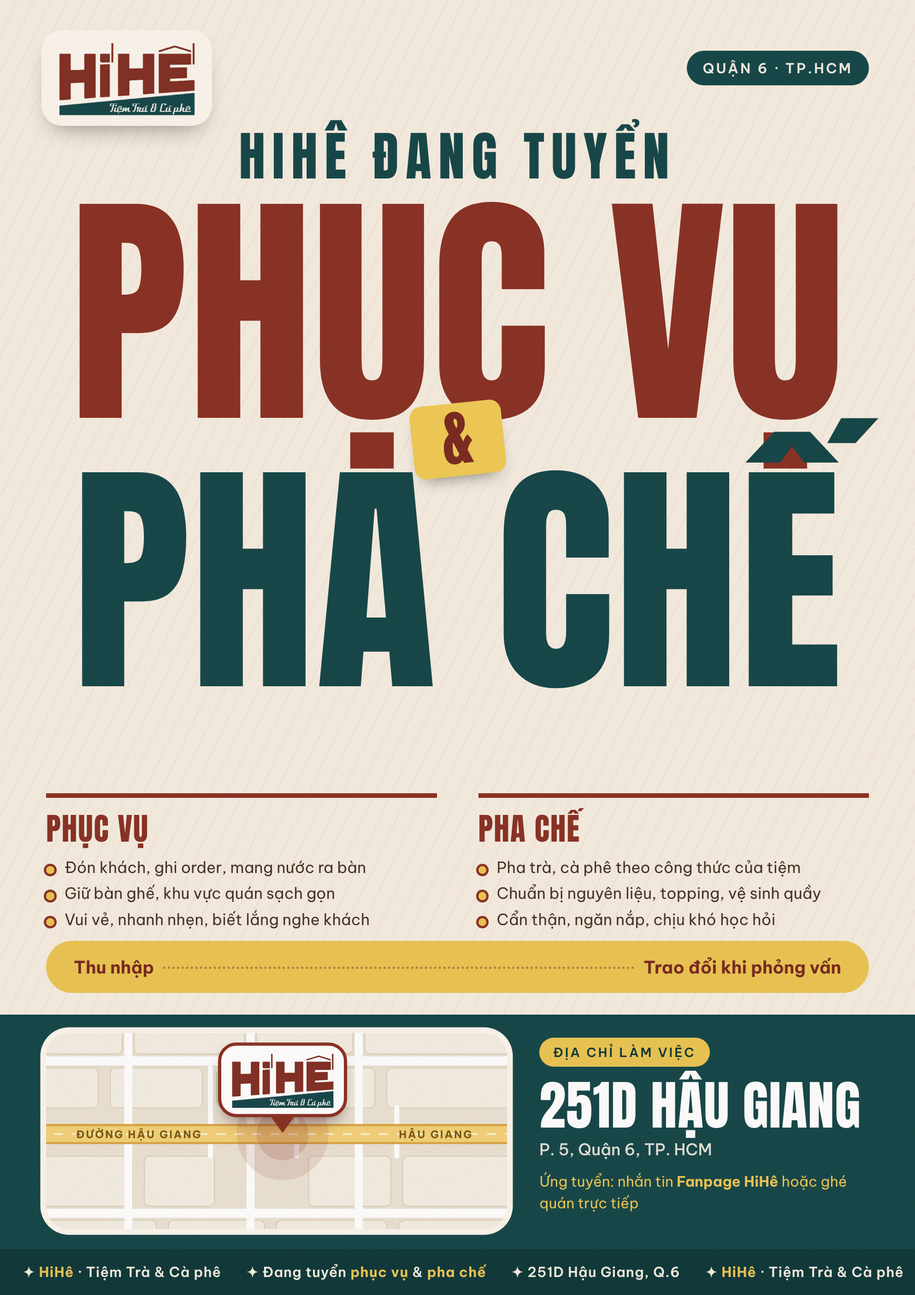
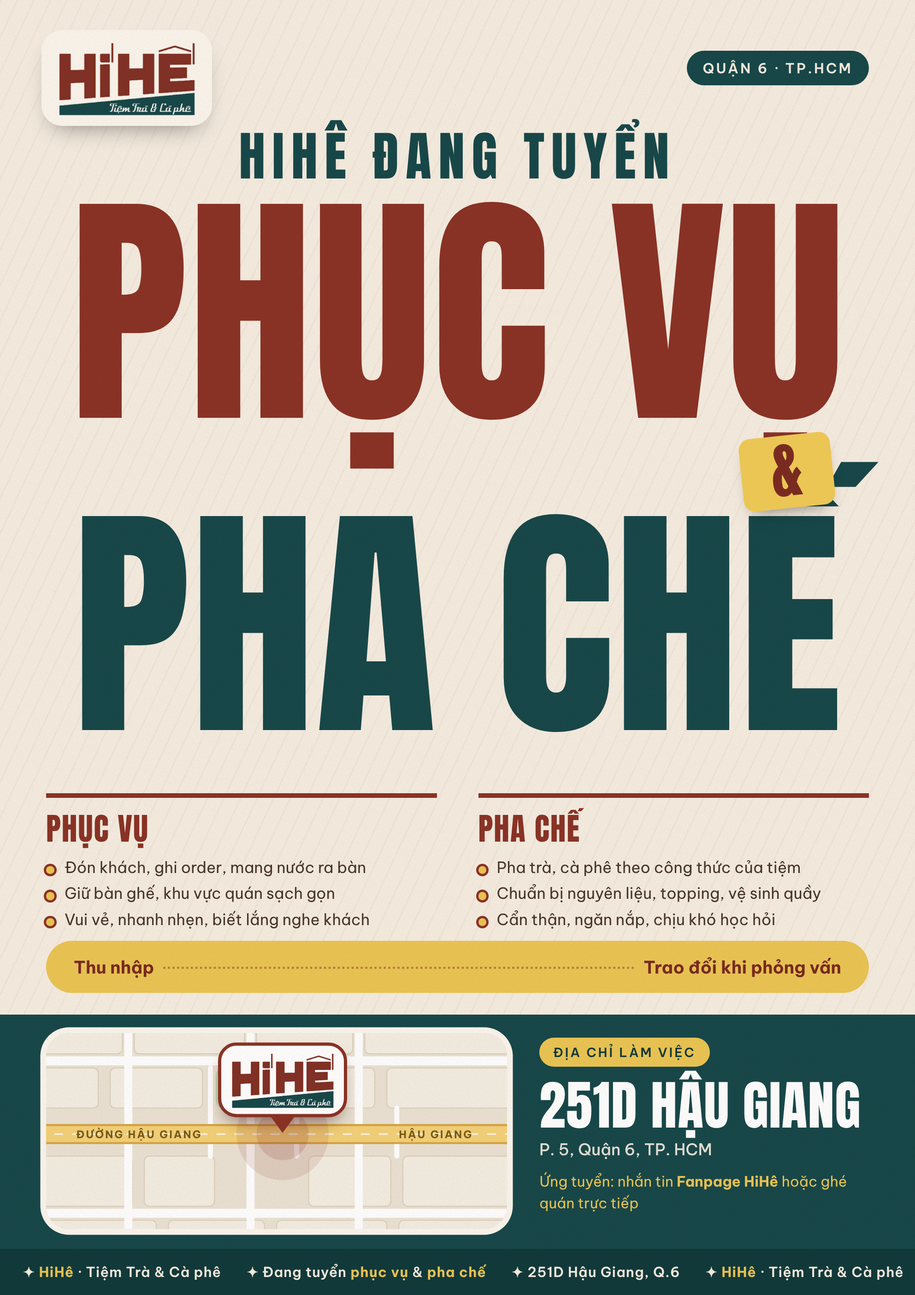
Poster 9: tách dòng chữ, tránh dấu chấm đè

Changed region(s): [[0.0625, 0.3098, 0.9683, 0.5887], [0.0625, 0.5267, 0.1562, 0.5887]]

diff --git a/tuyen-dung/source/p9.html b/tuyen-dung/source/p9.html
@@ -3,8 +3,8 @@
 <div style="position:absolute;left:0;right:0;top:112px;text-align:center">
  <div class="bc" style="font-size:46px;color:var(--teal);letter-spacing:6px">HiHê đang tuyển</div>
  <div class="bc" style="font-size:216px;color:var(--brick);margin-top:0;line-height:1.04">Phục vụ</div>
- <div style="position:relative;height:0"><div style="position:absolute;left:50%;top:-34px;transform:translateX(-50%) rotate(-6deg);background:var(--gold);color:var(--brick2);padding:4px 26px 6px;border-radius:10px;z-index:2;box-shadow:0 8px 14px -8px rgba(0,0,0,.5)" class="bc"><span style="font-size:52px">&amp;</span></div></div>
- <div class="bc" style="font-size:216px;line-height:1.04;margin-top:8px;color:var(--teal)">Pha chế</div>
+ <div style="position:relative;height:0"><div style="position:absolute;left:86%;top:-6px;transform:translateX(-50%) rotate(-6deg);background:var(--gold);color:var(--brick2);padding:4px 26px 6px;border-radius:10px;z-index:2;box-shadow:0 8px 14px -8px rgba(0,0,0,.5)" class="bc"><span style="font-size:52px">&amp;</span></div></div>
+ <div class="bc" style="font-size:216px;line-height:1.04;margin-top:46px;color:var(--teal)">Pha chế</div>
 </div>
 <div style="position:absolute;left:40px;right:40px;top:688px;display:grid;grid-template-columns:1fr 1fr;gap:36px">
  <div class="role" style="border-top:4px solid var(--brick);padding-top:12px"><h3>Phục vụ</h3><ul><li>Đón khách, ghi order, mang nước ra bàn</li><li>Giữ bàn ghế, khu vực quán sạch gọn</li><li>Vui vẻ, nhanh nhẹn, biết lắng nghe khách</li></ul></div>

diff --git a/tuyen-dung/source/build10.py b/tuyen-dung/source/build10.py
@@ -65,8 +65,8 @@ p9=f'''{LOGO_CARD(36,26,118)}
 <div style="position:absolute;left:0;right:0;top:112px;text-align:center">
  <div class="bc" style="font-size:46px;color:var(--teal);letter-spacing:6px">HiHê đang tuyển</div>
  <div class="bc" style="font-size:216px;color:var(--brick);margin-top:0;line-height:1.04">Phục vụ</div>
- <div style="position:relative;height:0"><div style="position:absolute;left:50%;top:-34px;transform:translateX(-50%) rotate(-6deg);background:var(--gold);color:var(--brick2);padding:4px 26px 6px;border-radius:10px;z-index:2;box-shadow:0 8px 14px -8px rgba(0,0,0,.5)" class="bc"><span style="font-size:52px">&amp;</span></div></div>
- <div class="bc" style="font-size:216px;line-height:1.04;margin-top:8px;color:var(--teal)">Pha chế</div>
+ <div style="position:relative;height:0"><div style="position:absolute;left:86%;top:-6px;transform:translateX(-50%) rotate(-6deg);background:var(--gold);color:var(--brick2);padding:4px 26px 6px;border-radius:10px;z-index:2;box-shadow:0 8px 14px -8px rgba(0,0,0,.5)" class="bc"><span style="font-size:52px">&amp;</span></div></div>
+ <div class="bc" style="font-size:216px;line-height:1.04;margin-top:46px;color:var(--teal)">Pha chế</div>
 </div>
 <div style="position:absolute;left:40px;right:40px;top:688px;display:grid;grid-template-columns:1fr 1fr;gap:36px">
  <div class="role" style="border-top:4px solid var(--brick);padding-top:12px"><h3>Phục vụ</h3><ul>{SERVE[SERVE.index('<ul>')+4:SERVE.index('</ul>')]}</ul></div>
